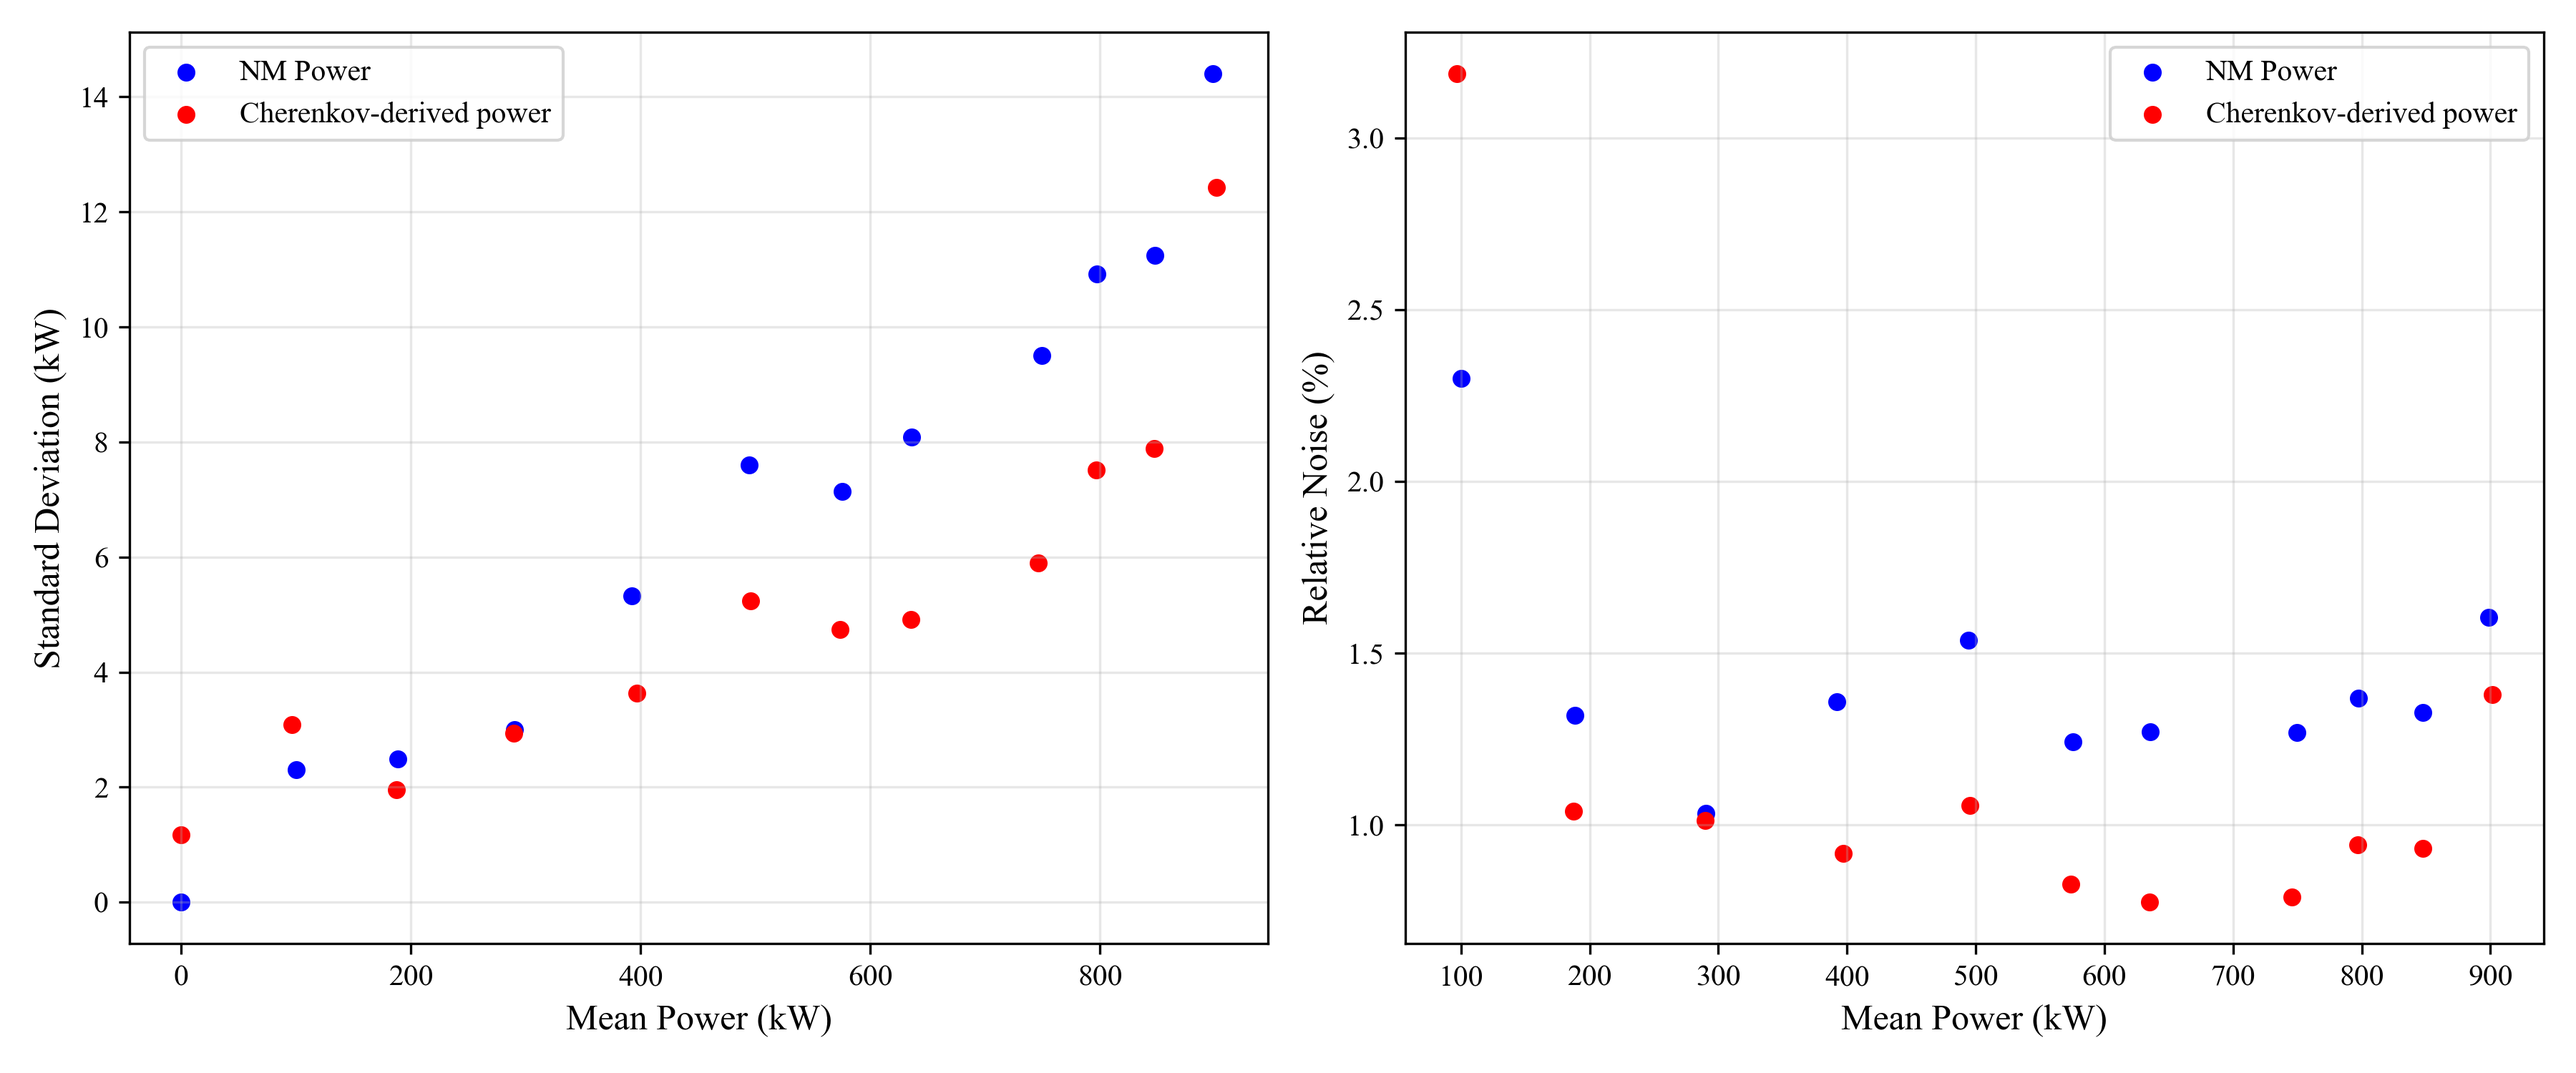
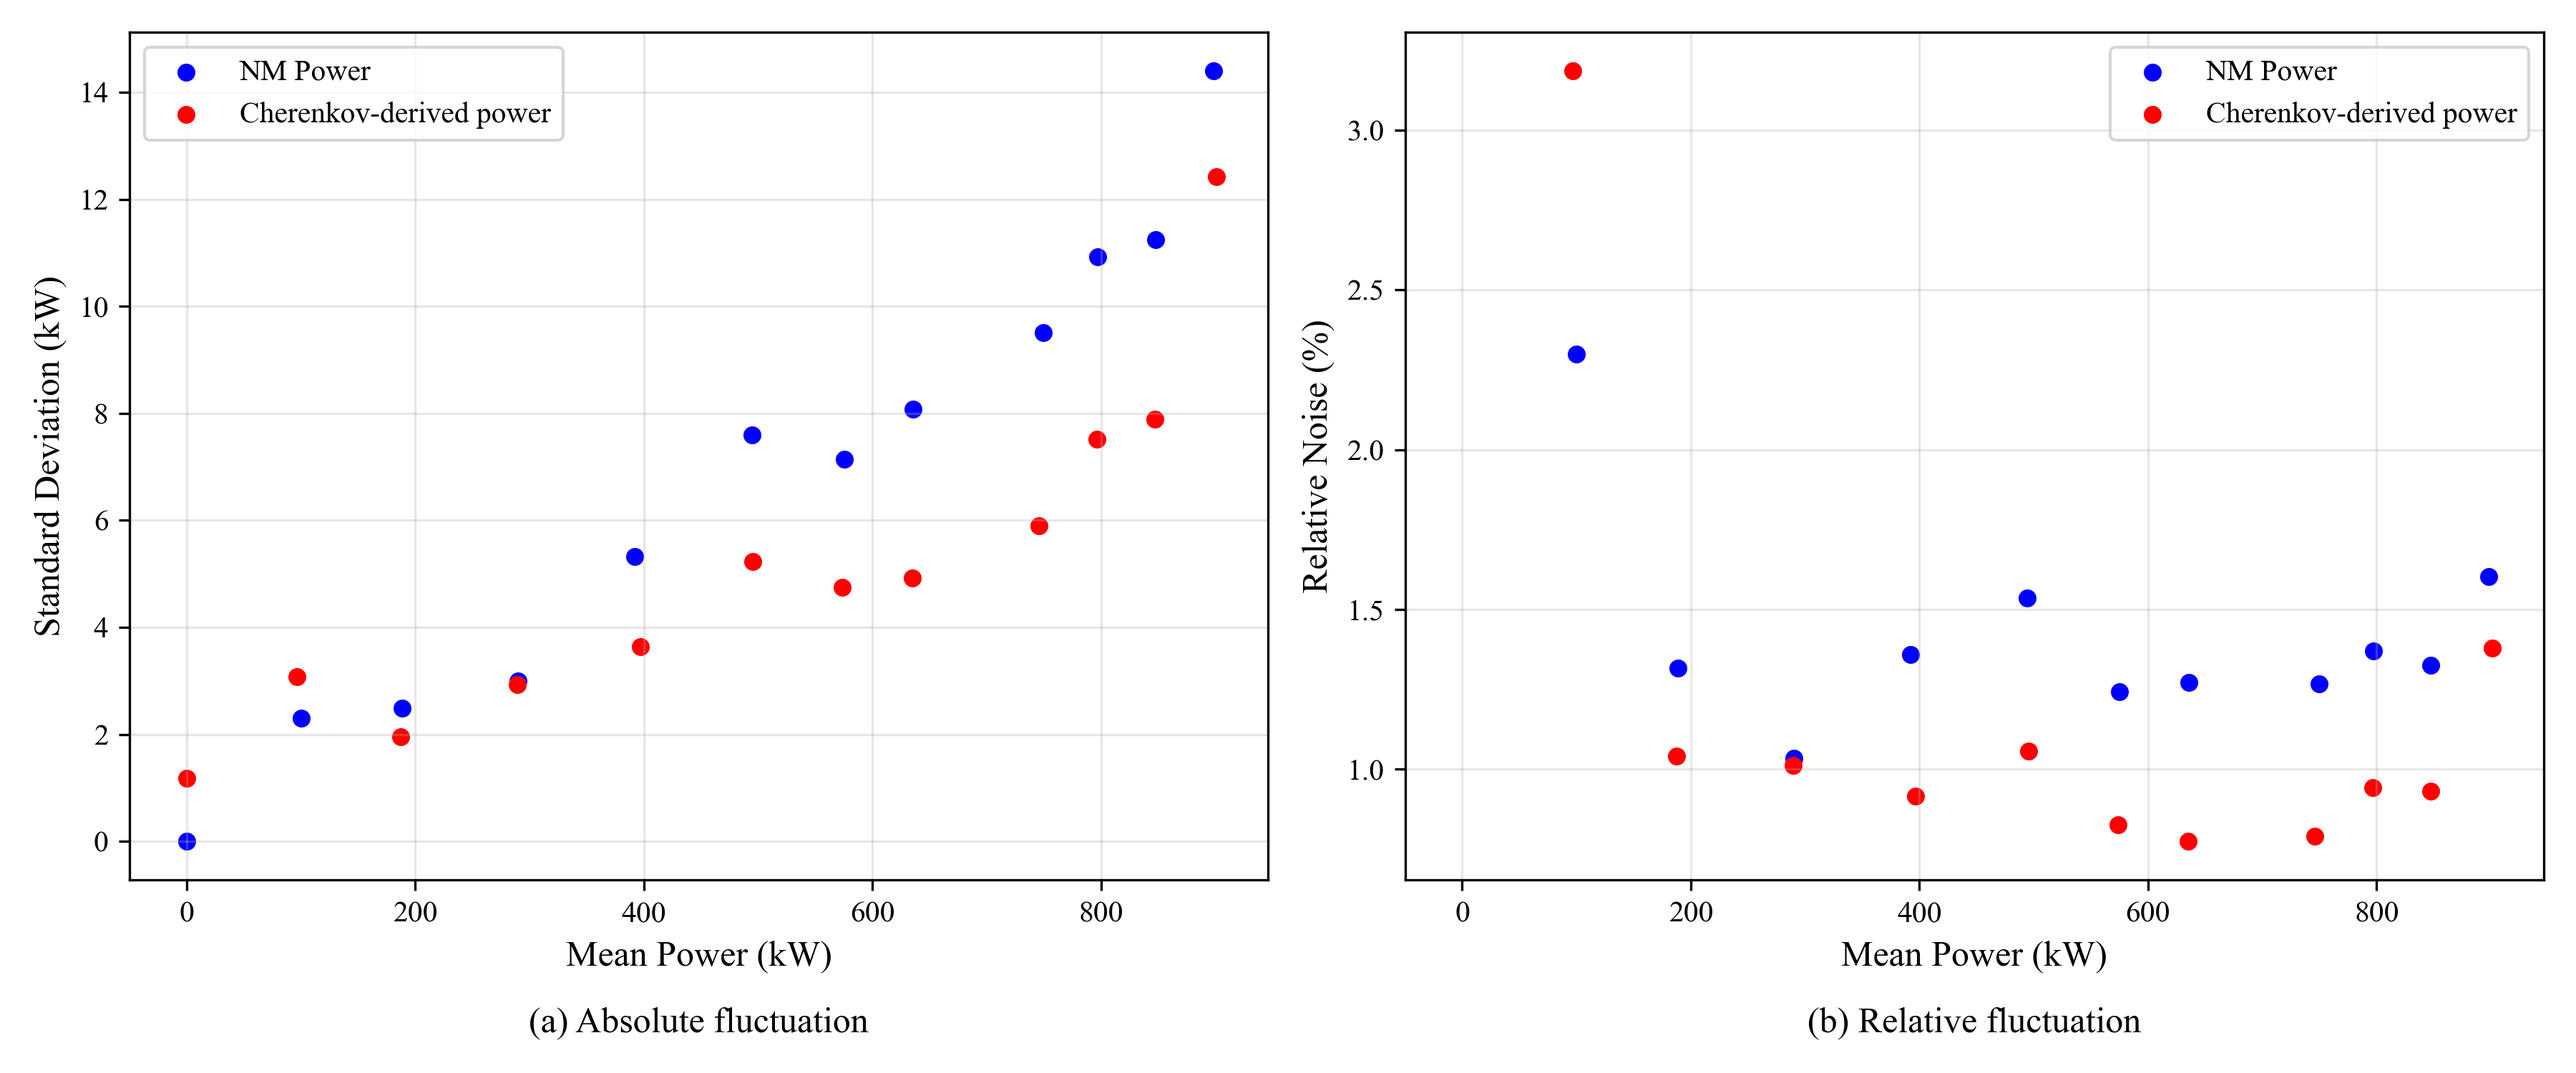
Figure 14 fixed

diff --git a/Generate_Figure_14.py b/Generate_Figure_14.py
@@ -179,6 +179,12 @@ valid_rel = (
     & (P3_mean > 1.0)
 )
 
+# Use the same x-axis limits for both subplots.
+# This makes panel (b) use the same mean-power scale as panel (a).
+all_x = np.concatenate([NM_mean[np.isfinite(NM_mean)], P3_mean[np.isfinite(P3_mean)]])
+x_min = -50
+x_max = np.nanmax(all_x) * 1.05
+
 fig, axes = plt.subplots(1, 2, figsize=(12, 5))
 
 # -----------------------------------------------------
@@ -202,8 +208,20 @@ axes[0].scatter(
 
 axes[0].set_xlabel("Mean Power (kW)", fontsize=12)
 axes[0].set_ylabel("Standard Deviation (kW)", fontsize=12)
+axes[0].set_xlim(x_min, x_max)
 axes[0].grid(True, alpha=0.3)
 axes[0].legend(fontsize=10)
+
+# Panel label below the graph
+axes[0].text(
+    0.5,
+    -0.15,
+    "(a) Absolute fluctuation",
+    transform=axes[0].transAxes,
+    ha="center",
+    va="top",
+    fontsize=12
+)
 
 # -----------------------------------------------------
 # (b) Relative noise
@@ -226,11 +244,26 @@ axes[1].scatter(
 
 axes[1].set_xlabel("Mean Power (kW)", fontsize=12)
 axes[1].set_ylabel("Relative Noise (%)", fontsize=12)
+axes[1].set_xlim(x_min, x_max)
 axes[1].grid(True, alpha=0.3)
 axes[1].legend(fontsize=10)
 
+# Panel label below the graph
+axes[1].text(
+    0.5,
+    -0.15,
+    "(b) Relative fluctuation",
+    transform=axes[1].transAxes,
+    ha="center",
+    va="top",
+    fontsize=12
+)
+
+# Leave enough bottom margin for panel labels
 plt.tight_layout()
+plt.subplots_adjust(bottom=0.18)
+
 plt.savefig(OUT_FIG, dpi=300)
-plt.show()
+# plt.show()
 
 print(f"Saved figure: {OUT_FIG}")
